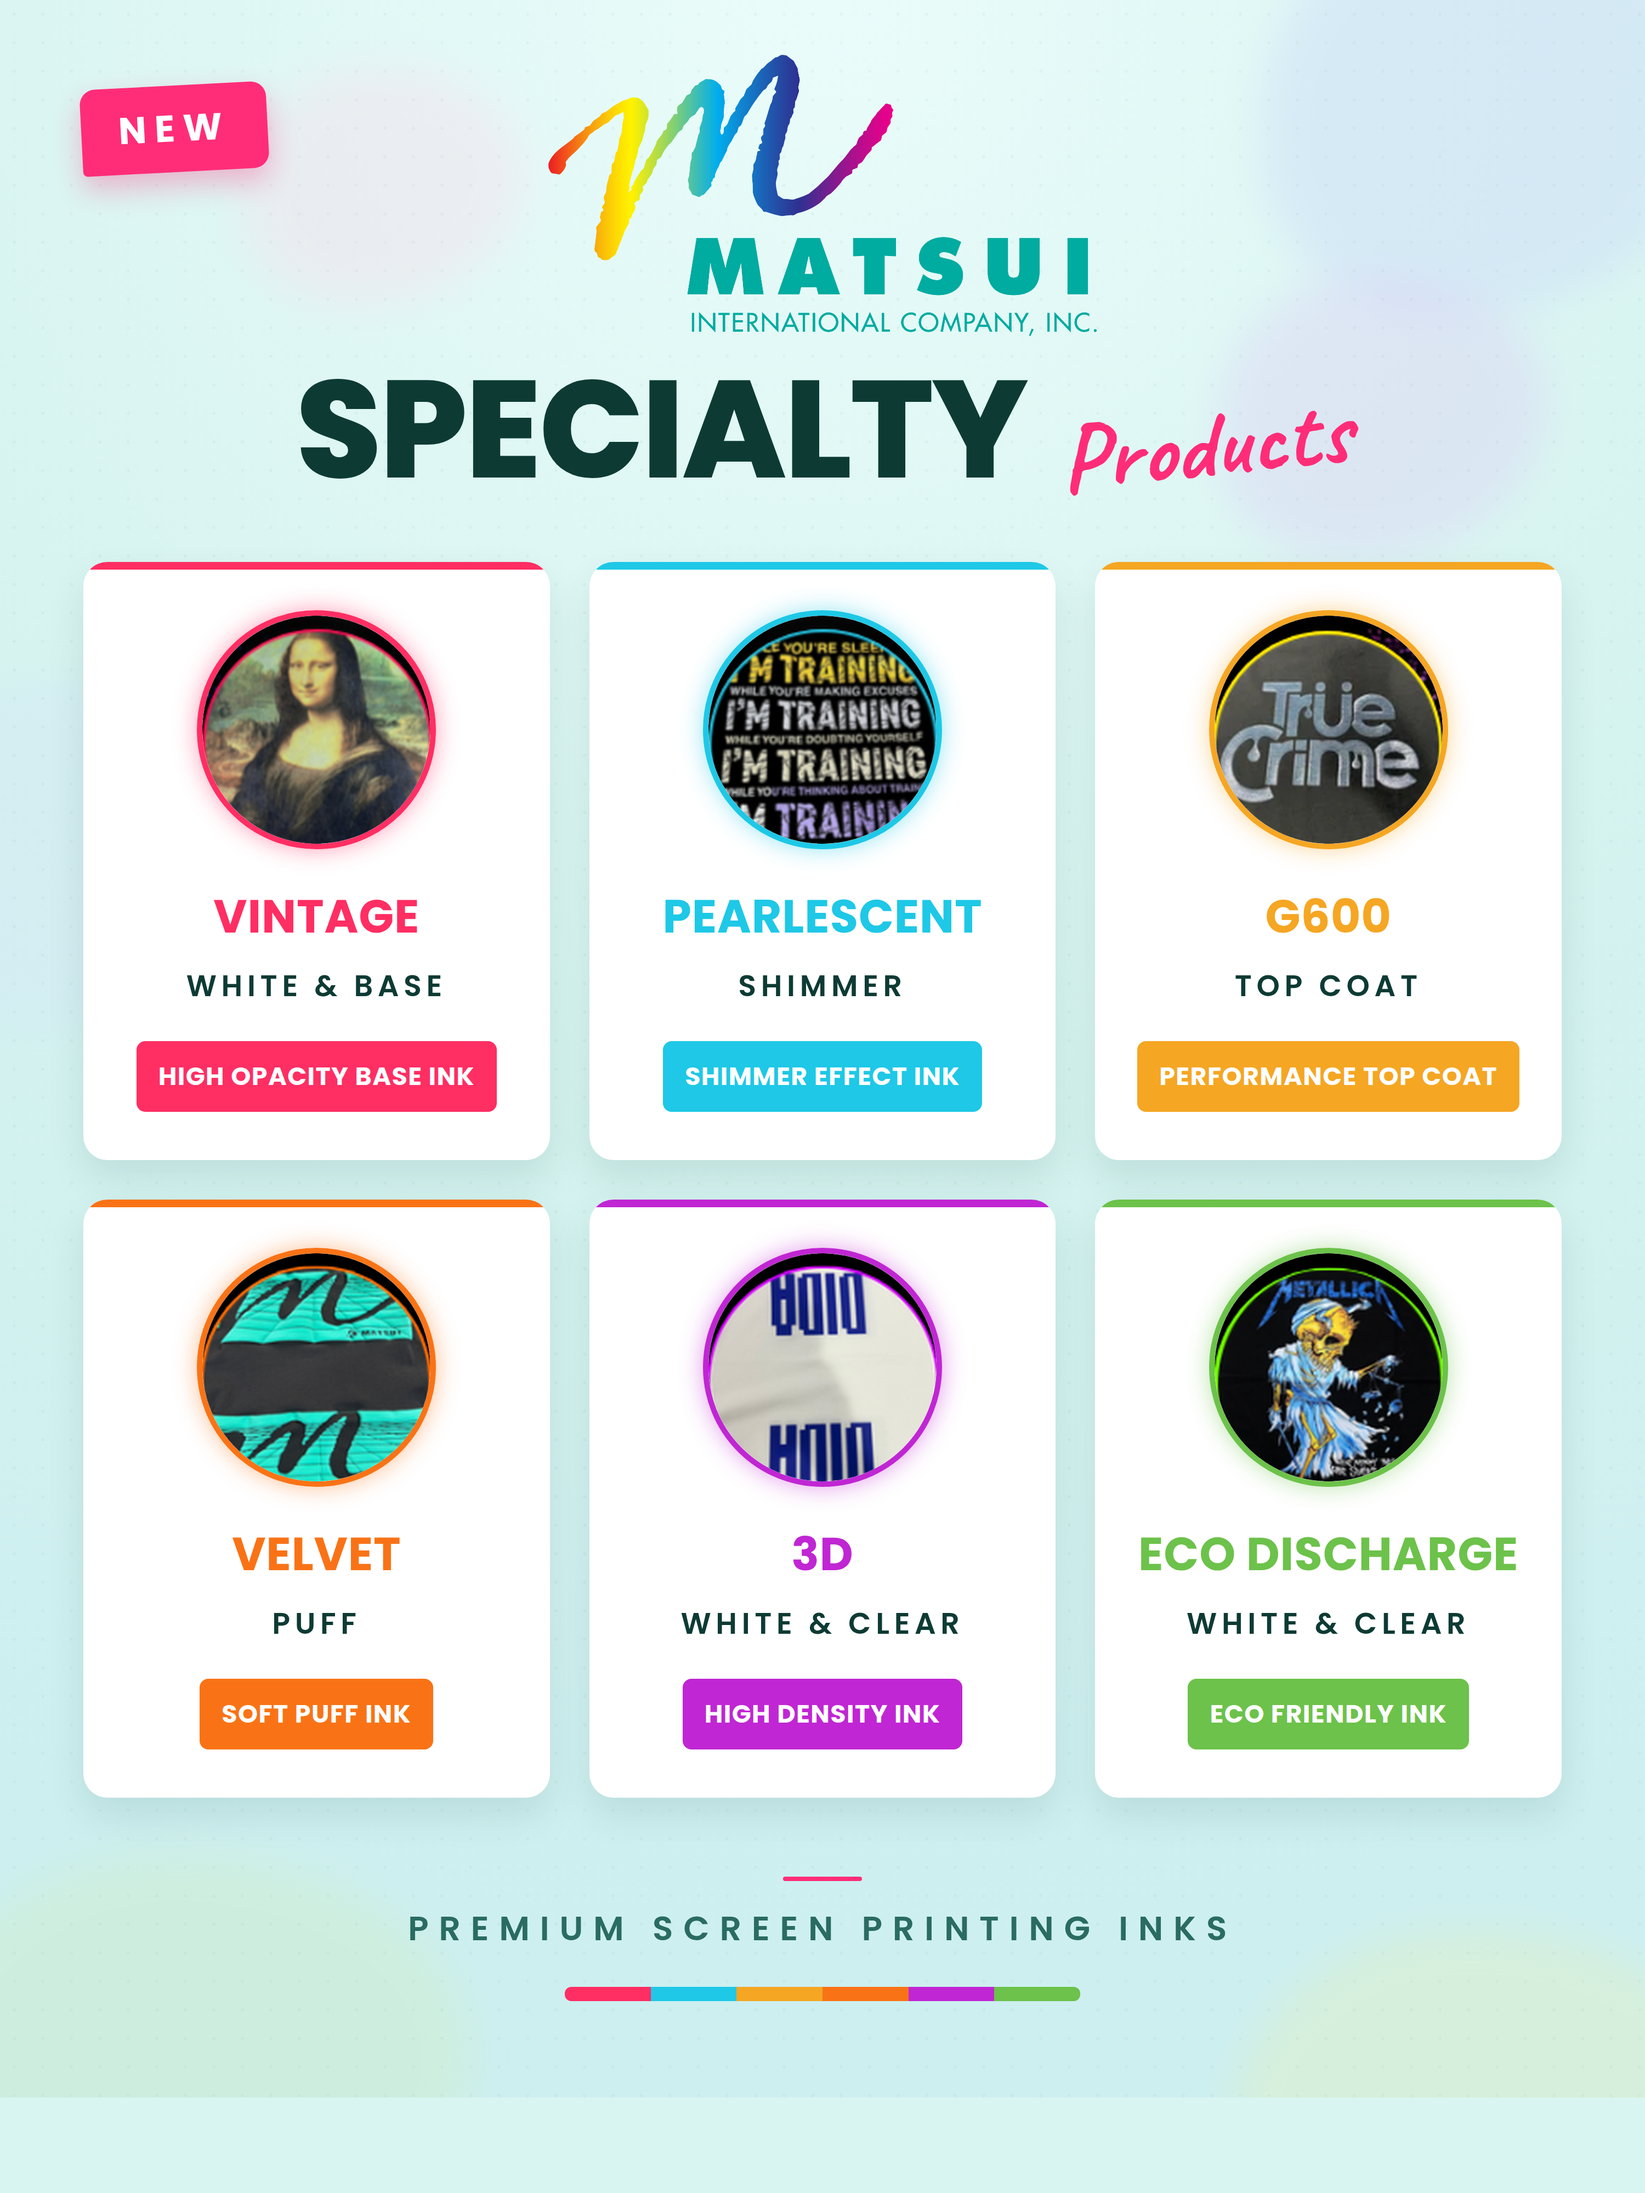
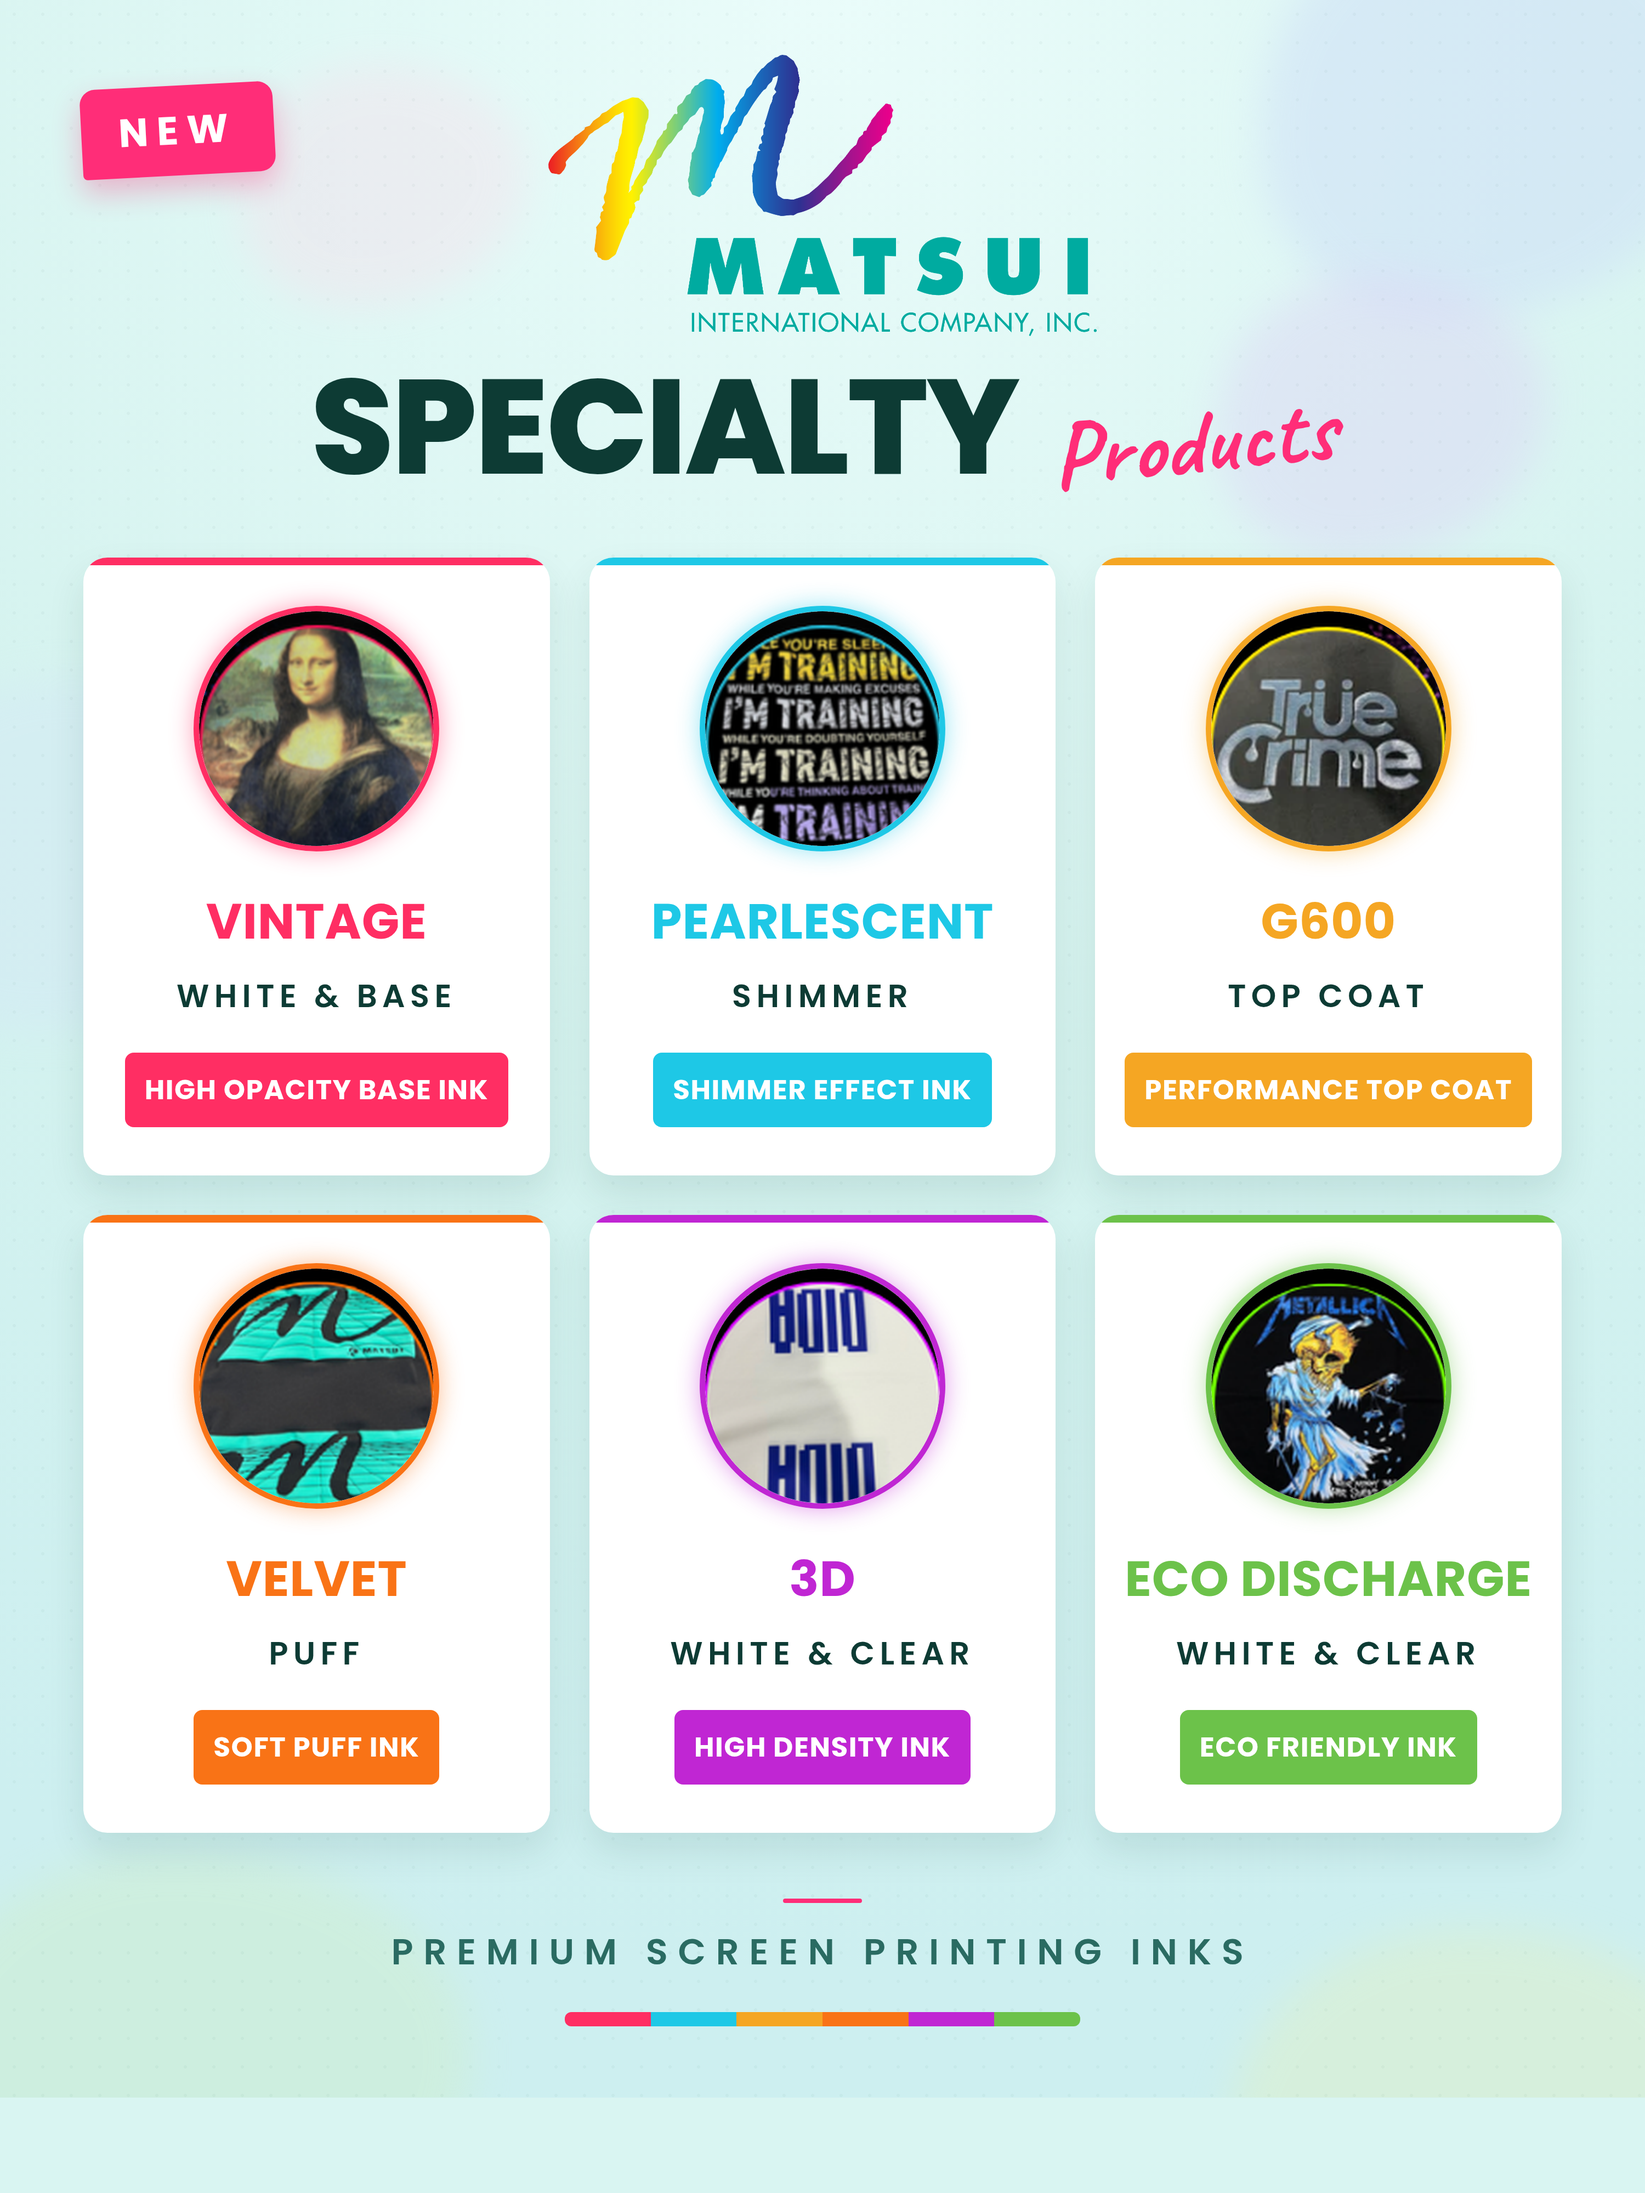
Nudge poster type up another step
Second legibility pass for the carousel — roughly 5-10% on top of the
previous increase, with spacing reclaimed to keep both slides inside
the canvas.

- Detail bullets 26 -> 28px, names 40 -> 43px, subtitles 24 -> 25px,
  badges 21 -> 22px, check icons 30 -> 32px
- Overview names 42 -> 45px, subtitles 27 -> 29px, badges 23 -> 25px,
  product circles 218 -> 224px
- Footer tagline 31 -> 33px, NEW chip 34 -> 36px

Claude-Session: https://claude.ai/code/session_01LZkeM3k2qiK2KzoJat9AUK

diff --git a/specialty-products-details.html b/specialty-products-details.html
@@ -7,7 +7,7 @@
 <style>
   .grid {
     grid-template-columns: repeat(2, 1fr);
-    gap: 34px 40px;
+    gap: 30px 40px;
     padding: 0 68px;
     margin-top: 34px;
   }
@@ -15,38 +15,38 @@
     display: flex;
     align-items: center;
     gap: 28px;
-    padding: 32px 30px 32px 30px;
+    padding: 28px 28px 28px 28px;
   }
-  .shot { width: 172px; height: 172px; flex: 0 0 172px; }
-  .name { font-size: 40px; margin-bottom: 8px; }
-  .sub  { font-size: 24px; margin-bottom: 20px; }
-  .badge { font-size: 21px; padding: 12px 18px; letter-spacing: .03em; }
+  .shot { width: 166px; height: 166px; flex: 0 0 166px; }
+  .name { font-size: 43px; margin-bottom: 8px; }
+  .sub  { font-size: 25px; margin-bottom: 18px; }
+  .badge { font-size: 22px; padding: 12px 18px; letter-spacing: .03em; }
 
-  .points { margin-top: 20px; }
+  .points { margin-top: 18px; }
   .points li {
     list-style: none;
     display: flex;
     align-items: flex-start;
     gap: 13px;
-    font-size: 26px;
+    font-size: 28px;
     font-weight: 600;
     line-height: 1.24;
     color: var(--ink);
   }
   .points li + li { margin-top: 12px; }
   .points .tick {
-    flex: 0 0 30px;
-    width: 30px; height: 30px;
+    flex: 0 0 32px;
+    width: 32px; height: 32px;
     margin-top: 3px;
     border-radius: 50%;
     background: var(--accent);
     color: #fff;
     font-family: "DejaVu Sans", sans-serif;
-    font-size: 17px;
-    line-height: 30px;
+    font-size: 18px;
+    line-height: 32px;
     text-align: center;
   }
-  .footer { margin-top: 34px; }
+  .footer { margin-top: 26px; }
 </style>
 </head>
 <body>
@@ -58,7 +58,7 @@
   <div class="content">
     <div class="new-chip">NEW</div>
 
-    <img class="logo" src="Matsui logo.png" width="452" alt="Matsui International Company, Inc.">
+    <img class="logo" src="Matsui logo.png" width="430" alt="Matsui International Company, Inc.">
 
     <div class="title">
       <h1>SPECIALTY</h1>

diff --git a/assets/poster.css b/assets/poster.css
@@ -65,7 +65,7 @@ body {
   padding: 14px 34px;
   background: var(--pink);
   color: #fff;
-  font-size: 34px;
+  font-size: 36px;
   font-weight: 700;
   letter-spacing: .22em;
   border-radius: 14px 14px 14px 4px;
@@ -87,7 +87,7 @@ body {
   gap: 28px;
 }
 .title h1 {
-  font-size: 126px;
+  font-size: 122px;
   font-weight: 800;
   letter-spacing: -.015em;
   line-height: 1;
@@ -96,7 +96,7 @@ body {
 .title .script {
   font-family: "Caveat", cursive;
   font-weight: 700;
-  font-size: 88px;
+  font-size: 86px;
   color: var(--pink);
   transform: rotate(-6deg) translateY(14px);
 }
@@ -159,9 +159,9 @@ body {
   border-radius: 2px;
 }
 .footer .tag {
-  font-size: 31px;
+  font-size: 33px;
   font-weight: 600;
-  letter-spacing: .3em;
+  letter-spacing: .28em;
   color: var(--ink-soft);
   text-transform: uppercase;
 }

diff --git a/specialty-products-overview.html b/specialty-products-overview.html
@@ -12,11 +12,11 @@
     margin-top: 58px;
   }
   .card { padding: 44px 20px 44px; text-align: center; }
-  .shot { width: 218px; height: 218px; margin: 0 auto 30px; }
-  .name { font-size: 42px; margin-bottom: 12px; white-space: nowrap; }
-  .sub  { font-size: 27px; margin-bottom: 30px; }
-  .badge { font-size: 23px; padding: 15px 20px; letter-spacing: .03em; }
-  .footer { margin-top: 72px; }
+  .shot { width: 224px; height: 224px; margin: 0 auto 30px; }
+  .name { font-size: 45px; margin-bottom: 12px; white-space: nowrap; }
+  .sub  { font-size: 29px; margin-bottom: 30px; }
+  .badge { font-size: 25px; padding: 15px 18px; letter-spacing: .03em; }
+  .footer { margin-top: 60px; }
 </style>
 </head>
 <body>
